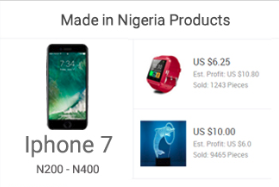
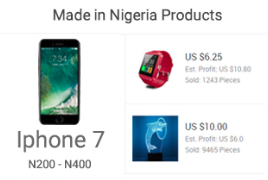
cleaning up the work

diff --git a/index.html b/index.html
@@ -2,9 +2,8 @@
 <head>
     <title>etrafa.com</title>
     <link rel="stylesheet" href="https://maxcdn.bootstrapcdn.com/bootstrap/3.3.7/css/bootstrap.min.css">
-    <link rel="stylesheet" href="mystyle.css">
     <link href="https://fonts.googleapis.com/css?family=Arsenal" rel="stylesheet">
-         
+	<link rel="stylesheet" href="mystyle.css">
     <script   src="https://code.jquery.com/jquery-3.1.1.min.js"   integrity="sha256-hVVnYaiADRTO2PzUGmuLJr8BLUSjGIZsDYGmIJLv2b8="   crossorigin="anonymous"></script>
     <script type="text/javascript" src="https://maxcdn.bootstrapcdn.com/bootstrap/3.3.7/js/bootstrap.min.js"></script>
     <script src="https://use.fontawesome.com/52e8dbd3d4.js"></script>
@@ -75,12 +74,12 @@
                 </div></div>
             <!-- end of search pane and button div holder 
             and beginning of maincontent holder -->
-                <div class="row col-md-12"><hr>
+                <div class="row col-md-12 top-pad">
                     <div class="row">
             <!--beginning of left panel -->
                         
                         <div class="col-lg-2">               
-							<h4><strong> All Catergories </strong></h4>
+							<h5 class="all-catergories"><strong> All Catergories </strong></h5>
                         <div class="row">
 							<ul class="first-level">
 										<li class="holding"><a href="#">Agriculture &amp; Food<i class="fa fa-caret-right pull-right" aria-hidden="true"></i></a>
@@ -853,9 +852,9 @@
 
             <!-- Nav tabs -->
             <ul class="nav nav-tabs top-nav" role="tablist">
-                <li role="presentation" class="active"><a href="#home" aria-controls="home" role="tab" data-toggle="tab">Sponsored products</a></li>
-                <li role="presentation"><a href="#profile" aria-controls="profile" role="tab" data-toggle="tab">Specialised Industries</a></li>
-                <li role="presentation"><a href="#messages" aria-controls="messages" role="tab" data-toggle="tab">Hot Items</a></li>
+				<li role="presentation" class="active"><a href="#home" aria-controls="home" role="tab" data-toggle="tab"><strong>Sponsored products</strong></a></li>
+                <li role="presentation"><a href="#profile" aria-controls="profile" role="tab" data-toggle="tab"><strong>Specialised Industries</strong></a></li>
+                <li role="presentation"><a href="#messages" aria-controls="messages" role="tab" data-toggle="tab"><strong>Hot Items</strong></a></li>
             </ul>
 
             <!-- Tab panes -->
@@ -863,20 +862,16 @@
                 <div role="tabpanel" class="tab-pane fade in active centad" id="home">
                     <div class="col-lg-12 pad">
                                                         <div class="row pad ">
-                                                            <div class="col-md-2"> <img src="assets/3.jpg" alt="" class="img-responsive full"> <p>Cable ties</p></div>
-                                                            <div class="col-md-2"> <img src="assets/3.jpg" alt="" class="img-responsive full"> <p>IV Mount</p></div>
-                                                            <div class="col-md-2"> <img src="assets/3.jpg" alt="" class="img-responsive full"> <p>Duvet</p></div>
-                                                            <div class="col-md-2"> <img src="assets/3.jpg" alt="" class="img-responsive full"> <p>Compressor</p></div>
-                                                            <div class="col-md-2"> <img src="assets/3.jpg" alt="" class="img-responsive full"> <p>Lock Nut</p></div>
-                                                            <div class="col-md-2"> <img src="assets/3.jpg" alt="" class="img-responsive full"> <p>computer</p></div>
+                                                            <div class="col-md-3"> <img src="assets/3.jpg" alt="" class="img img-responsive full"> <p>Cable ties</p></div>
+                                                            <div class="col-md-3"> <img src="assets/3.jpg" alt="" class="img img-responsive full"> <p>IV Mount</p></div>
+                                                            <div class="col-md-3"> <img src="assets/3.jpg" alt="" class="img img-responsive full"> <p>Duvet</p></div>
+                                                            <div class="col-md-3"> <img src="assets/3.jpg" alt="" class="img img-responsive full"> <p>Compressor</p></div>
                                                         </div>
                                                         <div class="row pad">
-                                                            <div class="col-md-2"> <img src="assets/3.jpg" alt="" class="img-responsive full"> <p>Passenger Ellevator</p></div>
-                                                            <div class="col-md-2"> <img src="assets/3.jpg" alt="" class="img-responsive full"> <p>Plush Tov</p></div>
-                                                            <div class="col-md-2"> <img src="assets/3.jpg" alt="" class="img-responsive full"> <p>Bathroom Wall<br> Tile</p></div>
-                                                            <div class="col-md-2"> <img src="assets/3.jpg" alt="" class="img-responsive full"> <p>LED Table Light</p></div>
-                                                            <div class="col-md-2"> <img src="assets/3.jpg" alt="" class="img-responsive full"> <p>Press Machine</p></div>
-                                                            <div class="col-md-2"> <img src="assets/3.jpg" alt="" class="img-responsive full"> <p>Hardwares</p></div>
+                                                            <div class="col-md-3"> <img src="assets/3.jpg" alt="" class="img img-responsive full"> <p>Passenger Ellevator</p></div>
+                                                            <div class="col-md-3"> <img src="assets/3.jpg" alt="" class="img img-responsive full"> <p>Plush Tov</p></div>
+                                                            <div class="col-md-3"> <img src="assets/3.jpg" alt="" class="img img-responsive full"> <p>Bathroom Wall<br> Tile</p></div>
+                                                            <div class="col-md-3"> <img src="assets/3.jpg" alt="" class="img img-responsive full"> <p>LED Table Light</p></div>
                                                         </div>
                                         </div>
                 </div>
@@ -887,16 +882,12 @@
                                                             <div class="col-md-2"> <img src="assets/3.jpg" alt="" class="img-responsive full"> <p>IV Mount</p></div>
                                                             <div class="col-md-2"> <img src="assets/3.jpg" alt="" class="img-responsive full"> <p>Duvet</p></div>
                                                             <div class="col-md-2"> <img src="assets/3.jpg" alt="" class="img-responsive full"> <p>Compressor</p></div>
-                                                            <div class="col-md-2"> <img src="assets/3.jpg" alt="" class="img-responsive full"> <p>Lock Nut</p></div>
-                                                            <div class="col-md-2"> <img src="assets/3.jpg" alt="" class="img-responsive full"> <p>computer</p></div>
                                                         </div>
                                                         <div class="row pad">
                                                             <div class="col-md-2"> <img src="assets/3.jpg" alt="" class="img-responsive full"> <p>Passenger Ellevator</p></div>
                                                             <div class="col-md-2"> <img src="assets/3.jpg" alt="" class="img-responsive full"> <p>Plush Tov</p></div>
                                                             <div class="col-md-2"> <img src="assets/3.jpg" alt="" class="img-responsive full"> <p>Bathroom Wall<br> Tile</p></div>
                                                             <div class="col-md-2"> <img src="assets/3.jpg" alt="" class="img-responsive full"> <p>LED Table Light</p></div>
-                                                            <div class="col-md-2"> <img src="assets/3.jpg" alt="" class="img-responsive full"> <p>Press Machine</p></div>
-                                                            <div class="col-md-2"> <img src="assets/3.jpg" alt="" class="img-responsive full"> <p>Hardwares</p></div>
                                                         </div>
                                         </div>
                 </div>
@@ -907,16 +898,12 @@
                                                             <div class="col-md-2"> <img src="assets/3.jpg" alt="" class="img-responsive full"> <p>IV Mount</p></div>
                                                             <div class="col-md-2"> <img src="assets/3.jpg" alt="" class="img-responsive full"> <p>Duvet</p></div>
                                                             <div class="col-md-2"> <img src="assets/3.jpg" alt="" class="img-responsive full"> <p>Compressor</p></div>
-                                                            <div class="col-md-2"> <img src="assets/3.jpg" alt="" class="img-responsive full"> <p>Lock Nut</p></div>
-                                                            <div class="col-md-2"> <img src="assets/3.jpg" alt="" class="img-responsive full"> <p>computer</p></div>
                                                         </div>
                                                         <div class="row pad">
                                                             <div class="col-md-2"> <img src="assets/3.jpg" alt="" class="img-responsive full"> <p>Passenger Ellevator</p></div>
                                                             <div class="col-md-2"> <img src="assets/3.jpg" alt="" class="img-responsive full"> <p>Plush Tov</p></div>
                                                             <div class="col-md-2"> <img src="assets/3.jpg" alt="" class="img-responsive full"> <p>Bathroom Wall<br> Tile</p></div>
                                                             <div class="col-md-2"> <img src="assets/3.jpg" alt="" class="img-responsive full"> <p>LED Table Light</p></div>
-                                                            <div class="col-md-2"> <img src="assets/3.jpg" alt="" class="img-responsive full"> <p>Press Machine</p></div>
-                                                            <div class="col-md-2"> <img src="assets/3.jpg" alt="" class="img-responsive full"> <p>Hardwares</p></div>
                                                         </div>
                                         </div>
                 </div>
@@ -954,26 +941,12 @@
                         <!--beginning of right panel section 1-->
                             <div class="row pad">
                             <div class="col-md-12  npad">
-                                <img src="assets/delivery.png" alt="" class="img-responsive full"> 
+                                <img src="assets/delivery.png" alt="" class="img img-responsive wide"> 
                             </div></div>
                         </div>
             <!-- end of right panel  -->
                     </div>
-                    <div class="row pad">
-						<div class="col-lg-2">
-							<h4 class="pull-right"><i class="fa fa-envelope-open-o" aria-hidden="true"></i>  Trade Alert</h4>
-						</div>
-						<div class="col-lg-8">
-							<div class="input">
-								<input type="text" class="form-control" placeholder="Your Email" aria-describedby="basic-addon2">
-							</div>
-						</div>
-
-						<div class="col-lg-2">
-							<button type="button" class="btn col-lg-12 bg-red wyt b-red">Subscribe</button>
-						</div>
-					</div>
-					</div>
+                    
                     <div class="row pad">
                                                 
                                 <div class="col-lg-12">
@@ -1137,9 +1110,24 @@
 
                                     </div>
                     
-
-                            </div>
+									</div>
                             
+                            <div class="row top-pad">
+								<div class="col-lg-2"></div>
+						<div class="col-lg-1 no-pad">
+							<h5 class="pull-left"><strong><i class="fa fa-envelope-open-o" aria-hidden="true"></i>  Trade Alert</strong></h5>
+						</div>
+						<div class="col-lg-5">
+							<div class="input">
+								<input type="text" class="form-control" placeholder="Your Email" aria-describedby="basic-addon2">
+							</div>
+						</div>
+
+						<div class="col-lg-2">
+							<button type="button" class="btn col-lg-12 bg-red wyt b-red">Subscribe</button>
+						</div>
+					</div>
+					</div>
                         </div>
 
                     <div class="footer pad">

diff --git a/page2.html b/page2.html
@@ -521,24 +521,23 @@
                 </div>
             <!-- end of right panel  -->
                    
-                    <div class="col-lg-12">   
+                    
                     <div class="row pad">
-						<div class="col-lg-2">
-                            <h4 class="n-pad"><i class="fa fa-envelope-open-o" aria-hidden="true"></i> Trade Alert</h4>
+                                         <div class="row top-pad">
+								<div class="col-lg-2"></div>
+						<div class="col-lg-1 no-pad">
+							<h5 class="pull-left"><strong><i class="fa fa-envelope-open-o" aria-hidden="true"></i>  Trade Alert</strong></h5>
 						</div>
-						<div class="col-lg-8">
+						<div class="col-lg-5">
 							<div class="input">
 								<input type="text" class="form-control" placeholder="Your Email" aria-describedby="basic-addon2">
 							</div>
 						</div>
 
 						<div class="col-lg-2">
-							<button type="button" class="btn btn-block bg-red wyt b-red">Subscribe</button>
+							<button type="button" class="btn col-lg-12 bg-red wyt b-red">Subscribe</button>
 						</div>
-					</div>
-					</div>
-                    <div class="row pad">
-                                                
+					</div>       
                                 
                     
 

diff --git a/mystyle.css b/mystyle.css
@@ -40,13 +40,14 @@ body{
 }
 
 .nav-tabs{
-    padding-left: 10%;
+    padding-left: 35%;
     padding-right:10%;
 }
 
 .top-nav{
-    padding-left: 2%;
-    padding-right:2%;
+    padding-left: 30%;
+    margin-left:15px;
+    margin-right:15px
 }
 
 quote{
@@ -115,14 +116,11 @@ quote{
     background-color: #fff;
     border: 1px solid transparent;
     border-bottom: 3px dashed #f44336;
-    padding-left: 80px;
-    padding-right: 80px;
+
     
 }
 
 .nav-tabs>li>a:hover, .nav-tabs>li>a:active, .nav-tabs>li>a{
-    padding-left: 80px;
-    padding-right: 80px;
     color:#000;
     text-decoration: none;
 }
@@ -147,9 +145,7 @@ cl-white{
 .b-col{    color: #fff;
 }
 
-.centad .row div p{
-    text-align: center;
-}
+
 
 .drop-down{
     padding-top: 9px;
@@ -546,4 +542,13 @@ hr{
 
 .video-design a, .video-design a:hover, .video-design a:active{
     color: #222
+}
+
+
+.first-level li a:hover, .first-level li a:active, .first-level li a{
+    color: #000;
+    text-decoration: none;
+}
+.all-catergories{
+    margin-left: -10px
 }
